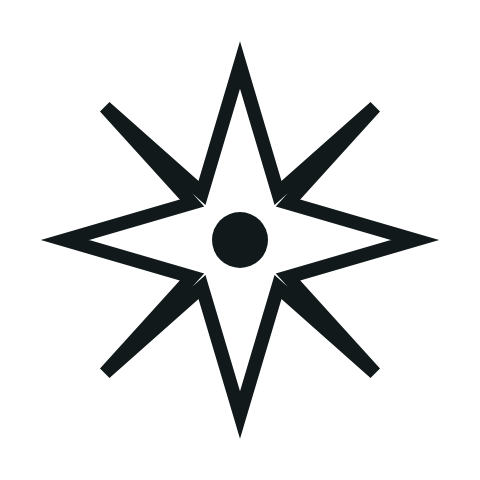
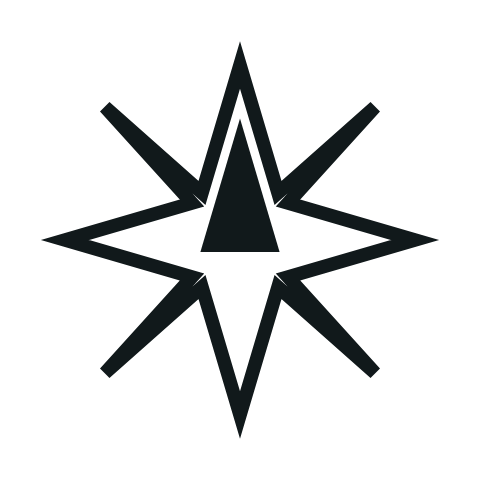
Draw the star's centre out into an arrow pointing north
Veer's direction: the persimmon dot becomes an arrow from the centre up the
north ray, sides parallel to the ray's, an even gap inside the outline.

Changed region(s): [[0.4062, 0.25, 0.5938, 0.5625]]

diff --git a/scripts/build_brand_assets.py b/scripts/build_brand_assets.py
@@ -1,6 +1,7 @@
 """Build Distill's logo and profile pictures as SVG (public/assets/brand/).
 
-The mark is the Figma eight-point chisel star (apps/web/components/d-star.tsx).
+The mark is the Figma eight-point chisel star (apps/web/components/d-star.tsx), with its
+core drawn out into an arrow pointing north (Veer, 27 Oct).
 The wordmark is Newsreader, outlined to paths so the files need no font.
 Run: python3 scripts/build_brand_assets.py   (PNG exports: scripts/export_brand_pngs.sh)
 """
@@ -18,7 +19,20 @@ GROUND, PARCHMENT, PERSIMMON, WALNUT, INK = "#f0ece2", "#ddd3bf", "#f26342", "#4
 # The star on a 40-unit box, centred on (20, 20), exactly as the app draws it.
 STAR = ("M20 2.5l3.8 12.8 9.7-8.6-8.7 9.6 12.7 3.7-12.7 3.7 8.7 9.6-9.7-8.6L20 37.5"
         "l-3.8-12.8-9.7 8.6 8.7-9.6L2.5 20l12.7-3.7-8.7-9.6 9.7 8.6L20 2.5z")
-STAR_CORE_R = 2.8
+
+
+def needle(stroke, gap=0.85, base=21.2):
+    """The core drawn out into an arrow up the north ray.
+
+    Its sides run parallel to the ray's, an even gap inside the outline, from the
+    centre to just short of the tip: the star points north, the direction we want
+    your life to go in.
+    """
+    import math
+    half = math.atan(3.8 / 12.8)                          # the north ray's half-angle
+    ay = 2.5 + (stroke / 2 + gap) / math.sin(half)        # apex, `gap` inside the stroke
+    hw = (base - ay) * math.tan(half)
+    return f"M20 {ay:.2f}L{20 + hw:.2f} {base}L{20 - hw:.2f} {base}Z"
 
 
 def star(x, y, size, color, core=None, stroke=1.35):
@@ -26,7 +40,7 @@ def star(x, y, size, color, core=None, stroke=1.35):
     s = size / 40
     return (f'<g transform="translate({x:.2f} {y:.2f}) scale({s:.4f})">'
             f'<path d="{STAR}" fill="none" stroke="{color}" stroke-width="{stroke}"/>'
-            f'<circle cx="20" cy="20" r="{STAR_CORE_R}" fill="{core or color}"/></g>')
+            f'<path d="{needle(stroke)}" fill="{core or color}"/></g>')
 
 
 def wordmark_font():

diff --git a/public/assets/brand/README.md b/public/assets/brand/README.md
@@ -9,6 +9,6 @@ Preview all of it: `preview.html` (or `preview.png`).
 | `profile-*.svg`, `png/profile-*-400.png`, `-1080.png` | Social profile pictures (Instagram, X, TikTok, LinkedIn). Square and full-bleed; the star sits inside the circle crop. Upload the 1080 PNG. |
 | `png/distill-logo-*.png`, `png/distill-mark-*.png` | Transparent PNGs at 4x. |
 
-- The star is the Figma eight-point chisel star, the same path as `apps/web/components/d-star.tsx`. Profile pictures use a heavier stroke so it holds at 40px.
+- The star is the Figma eight-point chisel star, the same path as `apps/web/components/d-star.tsx`. Its centre dot is drawn out into an arrow up the north ray: the direction we want your life to go in. Profile pictures use a heavier stroke so it holds at 40px.
 - The wordmark is Newsreader 500, outlined to paths, so the files need no font.
 - Rebuild: `python3 scripts/build_brand_assets.py`, then `scripts/export_brand_pngs.sh` (needs Google Chrome).
